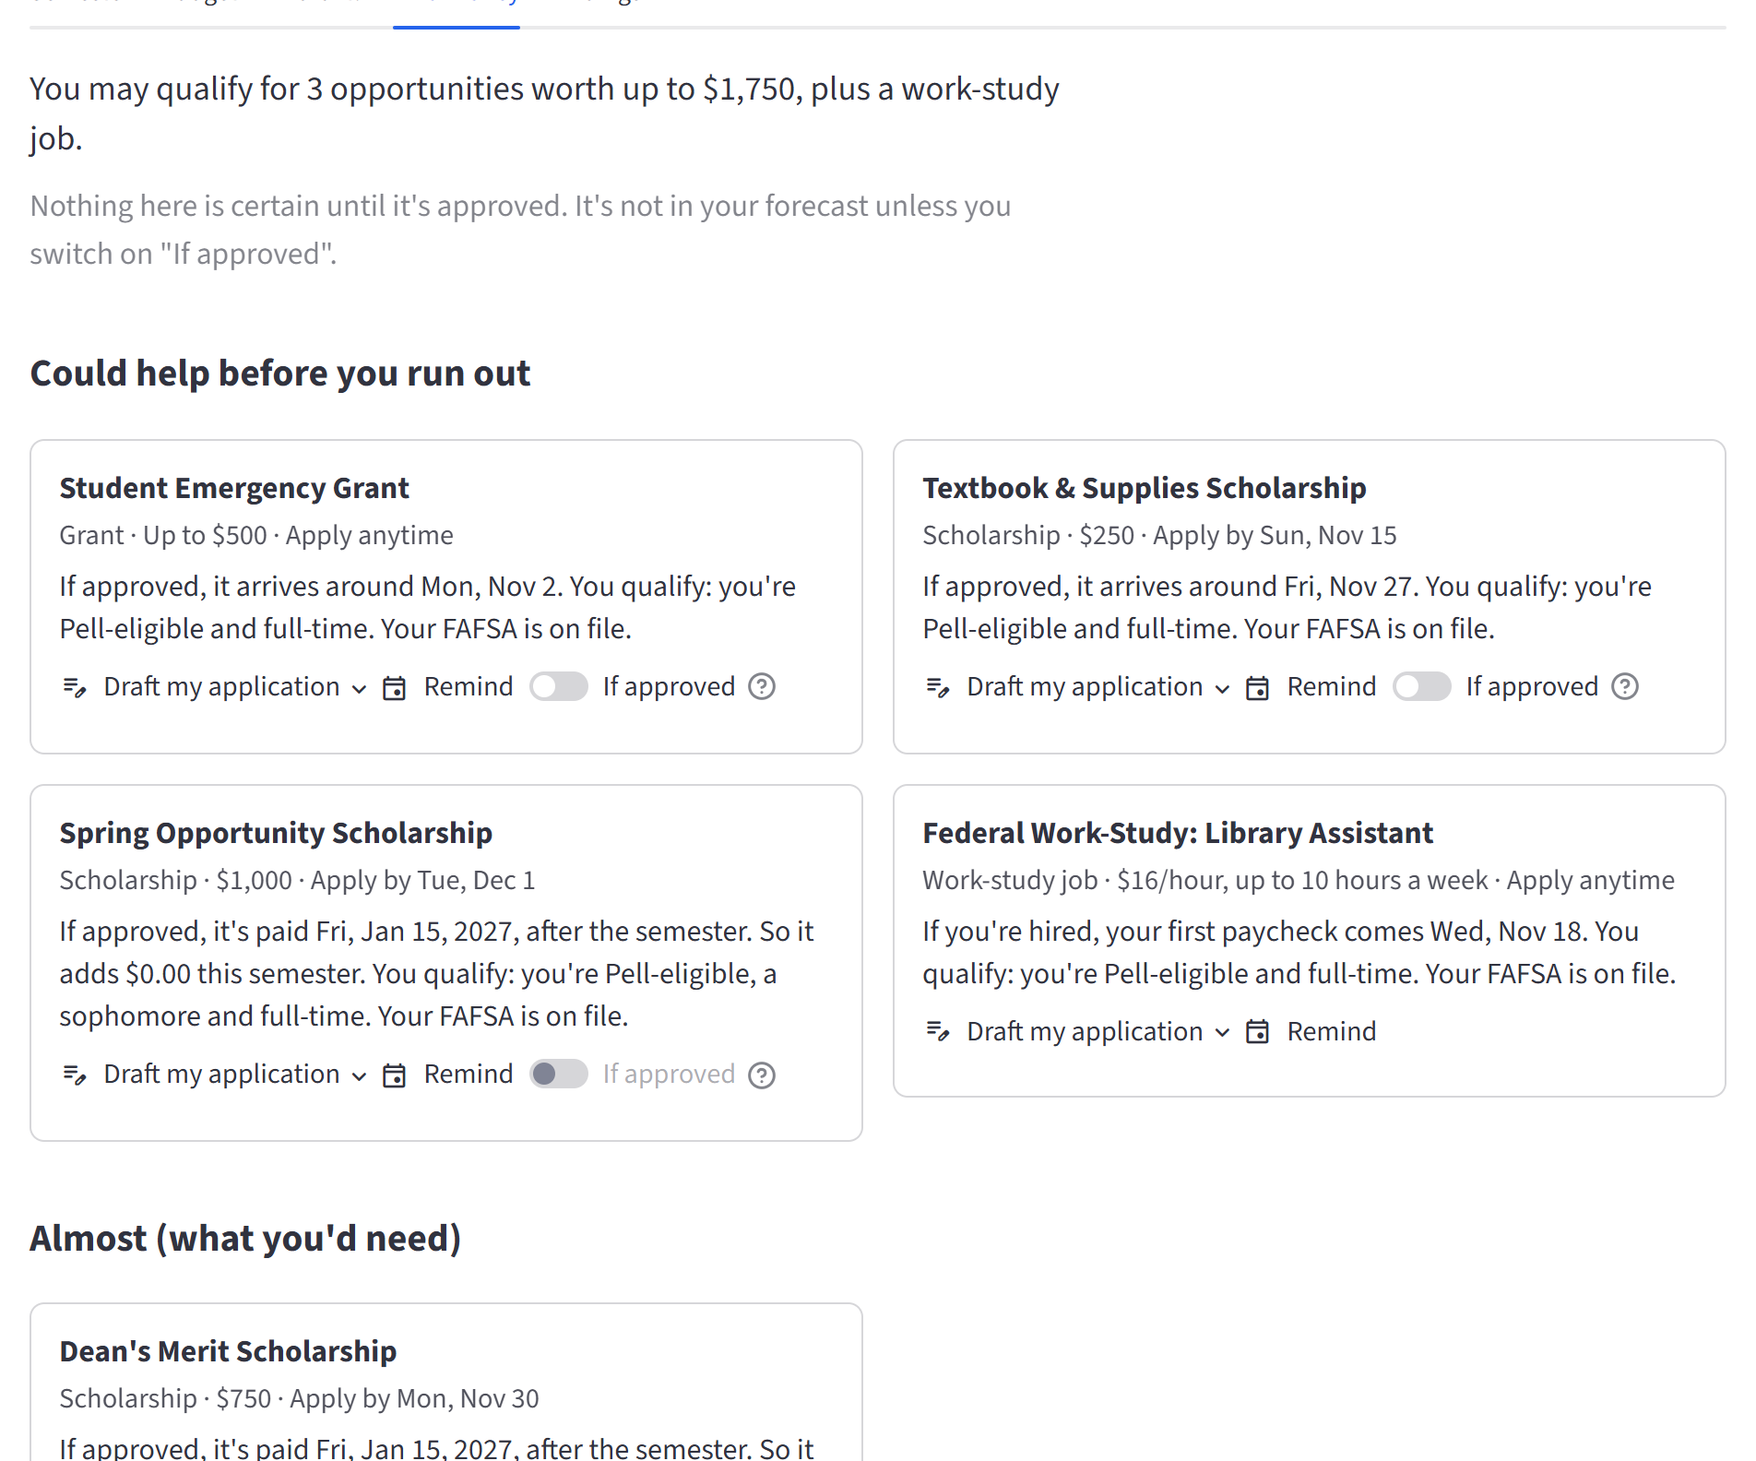
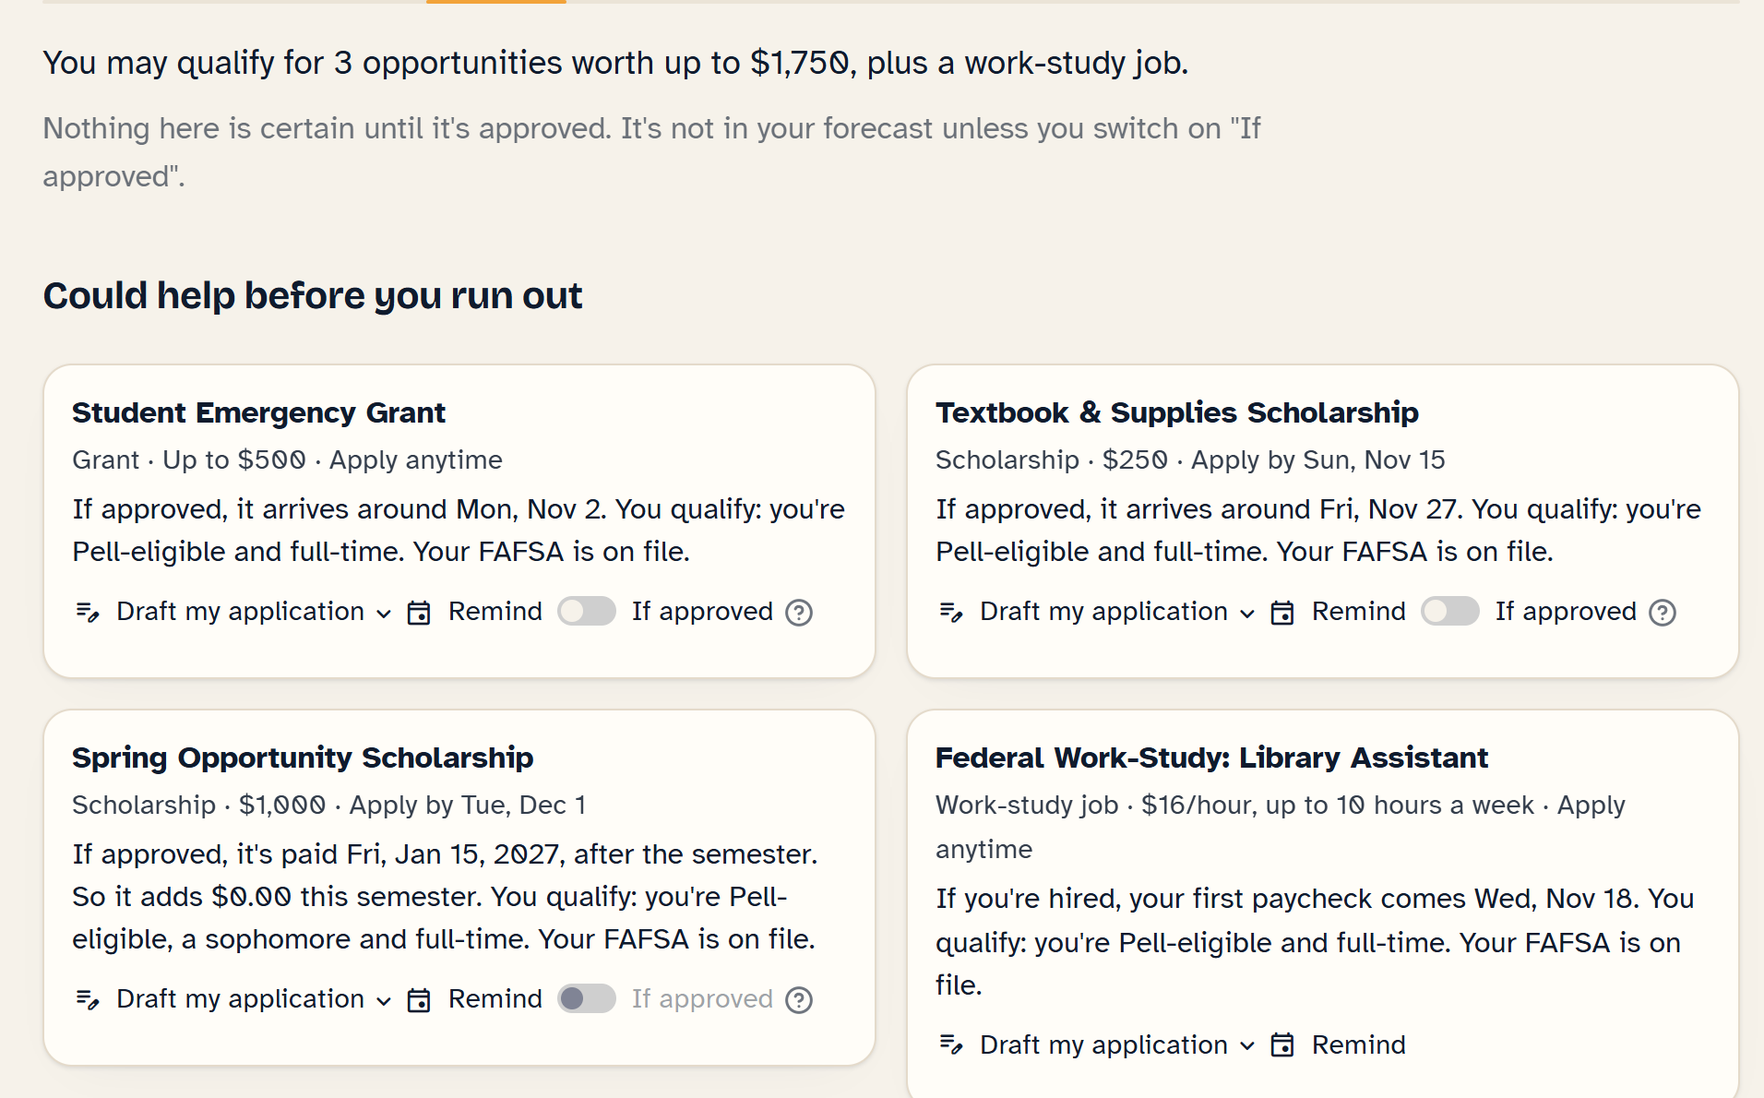
Layout part 4: demo script, README and deck screenshots for the new layout
- docs/DEMO_SCRIPT.md (3:42): open the chat with the round Ask Runway button; the flight questions, the Apple Music note, the follow-up and 'How Runway thought about this' happen in the panel; close it (X) before Form sent; the graph's two lines named in the opening beat; What Runway remembers sits at the bottom of the panel; judge tour updated
- docs/images/deck-*.png re-taken in light mode at 2x: the top of the page (notices + graph), the chat panel with an answer, proof chips and 'Written by ... through Meterless Nightshift', the shift planner, the Budget pie, Find money, What Runway remembers
- README screenshots and DECK_NOTES point at them

diff --git a/docs/DEMO_SCRIPT.md b/docs/DEMO_SCRIPT.md
@@ -25,23 +25,23 @@ never change; the AI's wording can, so read what is on screen rather than these 
 | **0:00-0:10** The problem | Pitch deck slide 1 (or the app header if there are no slides). | The problem slide. | "Students drop out over a few hundred dollars. Not because they overspend. Because they can't see what's coming." |
 | **0:10-0:20** Maya | Slide 2. | Maya and her eight money sources. | "Meet Maya. Her money lives in eight places: checking, a credit card, financial aid, her student account, her lease, her job, her meal plan and the school's aid list." |
 | **0:20-0:30** The solution | Slide 3. Then switch to the browser with Runway open. | Runway: an AI agent that explains why. | "Runway reads all eight, projects her money to December, explains why, and drafts the fix. She approves every action." |
-| **0:30-0:42** Open Runway | The app at the top (light mode). Point at the status card, the check-in, then the chart. | **"Your money runs out in 2 weeks, on Mon, Nov 9."** "Hi Maya. 6 things need your attention." The chart turns red after Nov 9. | "Runway speaks first. Her money runs out November 9th, when a $360 card payment is due." |
-| **0:42-1:05** The flight question | Click the chat box and **type**: `Can I afford a $400 flight home for Thanksgiving if I book it Nov 10?` Enter. Let it stream. Then click the proof chip **"2 · $1,850"** and point at **Do these** (don't click it). | "Understanding your question...", the quick answer at once, then the AI answer streaming in (about 9 s in the rehearsal). **"Yes, if you do 2 things."** Send the verification form ($1,850 refund around Thu, Nov 5); cancel Spotify ($23.98). Lowest point $5.81 on Mon, Nov 2. The proof table: the refund row from her student account. | "She types her question. Nemotron plans which tools to run. Our engine does all the math, so a quick answer shows in about a second. Then Nemotron writes the full answer, and a checker rejects any number that isn't in her records. Yes, if she does two things. Every number has proof." |
-| **1:05-1:15** The Apple Music insight | Point at the note under DO THIS. | "Cancelling Apple Music saves $0.00 this semester: Apple Music is billed to the credit card, and that card bill is paid after the semester ends." | "Here's what a budget app gets wrong. Cancelling Apple Music saves zero this semester: that card bill is paid in January. Spotify hits checking, so cancel that one." |
-| **1:15-1:27** The timing moment | **Type**: `Can I afford a $400 flight home for Thanksgiving?` Enter. | **"Not right now."** Lowest point $394 below zero on Mon, Nov 2. "You didn't say when you'd buy it, so I assumed tomorrow, Tue, Oct 27." | "Same flight, no date. Not right now: tomorrow comes before the refund. Runway says what it assumed." |
-| **1:27-1:37** A follow-up | **Type**: `what about Nov 17 instead?` Enter. | "Answering: Can I afford a $400 flight home for Thanksgiving if I book it Nov 17 instead?" **"Yes, if you do 2 things."** | "She can just follow up. Runway knows she means the flight." |
-| **1:37-1:52** Form sent | Scroll up to **"Send your verification form"**. Open **Email** for a second (don't send). Click **Form sent**. | **"You're covered all semester."** The chart goes blue. In the chat: "Nice. With the form sent, your refund should arrive around Wed, Nov 4. Your money now lasts all semester..." | "Runway drafts the email; Maya sends it herself. She marks the form as sent, and the whole forecast updates instantly, with no AI call." |
-| **1:52-2:03** Shift planner | **Semester** tab > **Shift planner**: click **+4h this Saturday**, then **+4h next Saturday**. | "These 2 shifts add $115 and you're covered all semester." Sat, Oct 31 adds $57.35, paid Tue, Nov 3. Sat, Nov 7 adds $57.35, paid Wed, Nov 18. | "Extra shifts show what each one adds after withholding, and when it's actually paid." |
-| **2:03-2:11** Budget | **Budget** tab. Point at the sentence and the donut. | "So far in October, you spent $1,757. Most went to Rent ($725) and Shopping ($461)." | "Budget shows where October went." |
-| **2:11-2:22** Find money | **Find money** tab. Point at **Student Emergency Grant**, switch on **If approved**. | "Student Emergency Grant · Up to $500 · Apply anytime. If approved, it arrives around Mon, Nov 2." | "Find money matches her to school aid. It only counts if she switches on 'if approved'. A maybe is never money." |
-| **2:22-2:34** Under the hood: Nightshift | Scroll up to the flight answer. Open **How Runway thought about this**, switch on **Details for nerds**. | "Planned by: Nemotron Lightning (nvidia/nemotron-3.5-lightning-30b-a3b) through Meterless Nightshift, receipt rcpt_..."; "Written by: Nemotron Ultra (nvidia/nemotron-3-ultra-550b-a55b) through Meterless Nightshift, receipt rcpt_..."; "Number check: all ... match your records"; the plan JSON and every model call with its routed model. | "Under the hood. Every request goes through Meterless Nightshift to NVIDIA Nemotron: Lightning plans, Ultra writes. The receipt shows which model answered. Here's the plan Nemotron wrote, which Python validates before any tool runs." |
-| **2:34-2:42** The provider checks | Open **Behind the scenes** (bottom) > **AI provider**. | The checks table: Connection HTTP 200; Authorization online; a wrong token shows unauthorized; model discovery; text requests on meterless/auto and the Nemotron models, each with its routed model and receipt. | "Runway checks Nightshift the official way: connection, authorization, model discovery, and a real request." |
-| **2:42-3:02** Zetaris, live | Scroll to **Run live on Zetaris**, click it. Talk while the timer runs (about 18 s). | The timer "Running on Zetaris... 12.4 s", then "Zetaris answered in 18.2 s: 13 rows from card and checking." and the SQL across `RUNWAY_CHECKING` and `RUNWAY_CARD`. | "The data layer is Zetaris: eight separate databases. This federated query runs live across her checking and her card, to find charges that repeat every month. No cache." |
-| **3:02-3:10** The code | Editor: `agent.py`, `run()` at line 2506. Scroll `# PLAN` (2548), `# EXECUTE` (2585), `# EXPLAIN + CHECK` (2608). | One PLAN call, the tools in plain Python, one EXPLAIN call, then the check. | "The whole agent is this loop: plan, deterministic tools, explain, check. Two model calls per question." |
-| **3:10-3:30** Memory (Meterless H-MEM) | Back to the browser. Open **What Runway remembers** under the chat. Then **reload the page** (a new session) and point at the first check-in card. | The memories, each with where it came from: "Marked done: Form sent (Send your verification form).", "Plans extra shifts: Sat, Oct 31 (4 hours), Sat, Nov 7 (4 hours).", short notes of her questions. After the reload, on the form card: **"Last time you clicked "Form sent". Still true? Click it again."** | "Runway remembers, with Meterless H-MEM. Every memory says where it came from, and she can forget it. Next session, Runway picks up where she left off. Memory helps the planner understand her. The numbers still come only from her records." |
+| **0:30-0:44** Open Runway | The app at the top (light mode): the navy Runway band, then the status card and the check-in. Scroll a little to the graph card. | Board label **RUNS OUT · MON, NOV 9** and "Your money runs out in 2 weeks, on Mon, Nov 9." "Hi Maya. 6 things need your attention." The graph "Your money through Dec 18": a solid line that turns red after Nov 9, and a dotted green line, "If you follow the steps", with "With the steps: lowest $5.81". | "Runway speaks first. Her money runs out November 9th, when a $360 card payment is due. The solid line is what's happening. The dotted line is what happens if she follows the steps." |
+| **0:44-1:06** The flight question | Click the round **Ask Runway** button (bottom-left). In the panel, click the box and **type**: `Can I afford a $400 flight home for Thanksgiving if I book it Nov 10?` Enter. Let it stream. Then click the proof chip **"2 · $1,850"** and point at **Do these** (don't click it). | The chat panel: "Understanding your question...", the quick answer at once, then the answer streaming in (about 9 s with Ultra). **"Yes, if you do 2 things."** Proof chips; the refund row from her student account. | "She asks from anywhere in the app. Nemotron plans which tools to run. Our engine does all the math, so a quick answer shows in about a second. Then Nemotron writes the full answer, and a checker rejects any number that isn't in her records. Yes, if she does two things. Every number has proof." |
+| **1:06-1:15** The Apple Music insight | Point at the note under DO THIS. | "Cancelling Apple Music saves $0.00 this semester: Apple Music is billed to the credit card, and that card bill is paid after the semester ends." | "Here's what a budget app gets wrong. Cancelling Apple Music saves zero this semester: that card bill is paid in January. Spotify hits checking, so cancel that one." |
+| **1:15-1:27** The timing moment | In the panel, **type**: `Can I afford a $400 flight home for Thanksgiving?` Enter. | **"Not right now."** Lowest point $394 below zero on Mon, Nov 2. "You didn't say when you'd buy it, so I assumed tomorrow, Tue, Oct 27." | "Same flight, no date. Not right now: tomorrow comes before the refund. Runway says what it assumed." |
+| **1:27-1:36** A follow-up | **Type**: `what about Nov 17 instead?` Enter. | "Answering: Can I afford a $400 flight home for Thanksgiving if I book it Nov 17 instead?" **"Yes, if you do 2 things."** | "She can just follow up. Runway knows she means the flight." |
+| **1:36-1:50** Under the hood: Nightshift | Still in the panel: open **How Runway thought about this** on the first answer, switch on **Details for nerds**. | "Planned by: Nemotron Lightning ... through Meterless Nightshift, receipt rcpt_..."; "Written by: Nemotron Ultra (nvidia/nemotron-3-ultra-550b-a55b) through Meterless Nightshift, receipt rcpt_..."; the number check; the plan JSON and every model call with its routed model. | "Under the hood. Every request goes through Meterless Nightshift to NVIDIA Nemotron: Lightning plans, Ultra writes. The receipt shows which model answered. Here's the plan, which Python validates before any tool runs." |
+| **1:50-2:04** Form sent | Close the panel (**X**). In the check-in card **"Send your verification form"**, open **Email** for a second (don't send), then click **Form sent**. | **"You're covered all semester."**, board label **COVERED · DEC 18**. The graph: the solid line stays above $0 (blue) all semester; the dotted line now only adds cancelling Spotify. | "Runway drafts the email; Maya sends it herself. She marks the form as sent, and the whole forecast updates instantly, with no AI call." |
+| **2:04-2:14** Shift planner | **Semester** tab, scroll to **Shift planner**: click **+4h this Saturday**, then **+4h next Saturday**. | "These 2 shifts add $115 and you're covered all semester." Sat, Oct 31 adds $57.35, paid Tue, Nov 3. Sat, Nov 7 adds $57.35, paid Wed, Nov 18. | "Extra shifts show what each one adds after withholding, and when it's actually paid." |
+| **2:14-2:22** Budget | **Budget** tab. Point at the sentence and the donut. | "So far in October, you spent $1,757. Most went to Rent ($725) and Shopping ($461)." | "Budget shows where October went." |
+| **2:22-2:32** Find money | **Find money** tab. Point at **Student Emergency Grant**, switch on **If approved**. | "Student Emergency Grant · Up to $500 · Apply anytime. If approved, it arrives around Mon, Nov 2." | "Find money matches her to school aid. It only counts if she switches on 'if approved'. A maybe is never money." |
+| **2:32-2:40** The provider checks | Scroll to **Behind the scenes** (bottom), open it > **AI provider**. | The checks table: Connection HTTP 200; Authorization online; a wrong token shows unauthorized; model discovery; text requests, each with its routed model and receipt. | "Runway checks Nightshift the official way: connection, authorization, model discovery, and a real request." |
+| **2:40-3:00** Zetaris, live | Scroll to **Run live on Zetaris**, click it. Talk while the timer runs (about 18 s). | The timer "Running on Zetaris... 12.4 s", then "Zetaris answered in 18.2 s: 13 rows from card and checking." and the SQL across `RUNWAY_CHECKING` and `RUNWAY_CARD`. | "The data layer is Zetaris: eight separate databases. This federated query runs live across her checking and her card, to find charges that repeat every month. No cache." |
+| **3:00-3:08** The code | Editor: `agent.py`, `run()` at line 2506. Scroll `# PLAN` (2548), `# EXECUTE` (2585), `# EXPLAIN + CHECK` (2608). | One PLAN call, the tools in plain Python, one EXPLAIN call, then the check. | "The whole agent is this loop: plan, deterministic tools, explain, check. Two model calls per question." |
+| **3:08-3:30** Memory (Meterless H-MEM) | Back to the browser. Click **Ask Runway**, open **What Runway remembers** at the bottom of the panel. Close the panel, **reload the page** (a new session) and point at the first check-in card. | The memories, each with where it came from: "Marked done: Form sent (Send your verification form).", "Plans extra shifts: Sat, Oct 31 (4 hours), Sat, Nov 7 (4 hours).", short notes of her questions. After the reload, on the form card: **"Last time you clicked "Form sent". Still true? Click it again."** | "Runway remembers, with Meterless H-MEM. Every memory says where it came from, and she can forget it. Next session, Runway picks up where she left off. Memory helps the planner understand her. The numbers still come only from her records." |
 | **3:30-3:42** Close | Scroll to the top. | The status card. | "Every answer Runway showed in our 29-question test passed the number check. Next: bank connections with consent, school integrations, a mobile app. Runway: know if you'll make it, and why." |
 
-The memory beat reloads the page, so it comes after everything that needs the chat. "What Runway remembers" fills
+The chat lives behind the round **Ask Runway** button (bottom-left, on every tab); the panel covers the page while it's open, so close it (X) before clicking on the page. The memory beat reloads the page, so it comes last. "What Runway remembers" fills
 up during the demo; the checklist clears it before recording.
 
 ### If something goes wrong while recording
@@ -103,7 +103,7 @@ up during the demo; the checklist clears it before recording.
 
 1. **Top of the page:** the status card ("Your money runs out in 2 weeks, on Mon, Nov 9.") and the check-in. Try
    **Remind**, **Email** and **Form sent** on the first card: the forecast changes at once. **Undo** puts it back.
-2. **Chat:** click the suggested questions. The flight question with a date says "Yes, if you do 2 things"; without
+2. **Chat:** click the round **Ask Runway** button (bottom-left, on every tab) and pick a suggested question. The flight question with a date says "Yes, if you do 2 things"; without
    a date it says "Not right now". Click a proof chip to see where each number came from. Type a follow-up
    ("what about Nov 17 instead?") if a key is set.
 3. **What-if panel:** turn fixes on and off; the chart and numbers update instantly, with no AI call.
@@ -113,7 +113,7 @@ up during the demo; the checklist clears it before recording.
 7. **Find money tab:** the school's grants ("if approved" switches), then "Found online - check before applying"
    (web results with links; amounts only when the page states them).
 8. **Findings tab:** the money leaks, with the Apple Music vs Spotify timing explained.
-9. **What Runway remembers** (under the chat): what she marked done, her budget and shifts, and notes from past
+9. **What Runway remembers** (at the bottom of the chat panel): what she marked done, her budget and shifts, and notes from past
    chats (Meterless H-MEM), each with where it came from; Forget, "This isn't right", Forget everything. Reload the
    page: the check-in says "Last time you clicked ..." for anything she did in an earlier session.
 10. **Behind the scenes** (bottom): the 8 data sources, the AI provider checks (Meterless Nightshift), **Run live on

diff --git a/docs/DECK_NOTES.md b/docs/DECK_NOTES.md
@@ -40,7 +40,7 @@ checked.
     shifts she plans, her Think harder preference and one-line notes of her questions. Each has where it came from
     and when.
   - **Across sessions:** next session the check-in asks "Last time you clicked "Form sent". Still true? Click it
-    again." (screenshot `docs/images/deck-1-status-and-check-in.png`).
+    again." (shown in the app's check-in after a reload).
   - **Planner only:** recall goes to the planner (PLAN) so follow-ups across sessions work. It never goes into the
     answer's numbers.
   - **Forgetting:** Forget one memory, "This isn't right" (H-MEM's `wrong` feedback), Forget everything (screenshot
@@ -96,8 +96,8 @@ checked.
 
 | File | Shows |
 |---|---|
-| `deck-1-status-and-check-in.png` | "Your money runs out in 2 weeks, on Mon, Nov 9." and the check-in, with the memory line "Last time you clicked "Form sent". Still true?" |
-| `deck-2-answer-with-proof.png` | The streamed flight answer: "Yes, if you do 2 things.", DO THIS, "Do these", the Apple Music $0.00 note, the proof chips |
+| `deck-1-notices-and-graph.png` | The top of the page: the board label RUNS OUT · MON, NOV 9, "Your money runs out in 2 weeks, on Mon, Nov 9.", the check-in (6 things), the tabs, and the graph card "Your money through Dec 18": solid "What's happening" (red below $0), dotted green "If you follow the steps", "With the steps: lowest $5.81" |
+| `deck-2-chat-panel-answer.png` | The chat panel (opened by the round Ask Runway button): "Yes, if you do 2 things.", DO THIS with "Do these", the Apple Music $0.00 note, the proof chips, and "Planned by: Nemotron Lightning ... / Written by: Nemotron Ultra ... through Meterless Nightshift, receipt rcpt_..." |
 | `deck-3-shift-planner.png` | "These 2 shifts add $115 and you're covered all semester.", each shift's pay and payday |
 | `deck-4-budget.png` | October spending: $1,757, the donut and the category table |
 | `deck-5-find-money.png` | School aid, "if approved" switches: the $500 emergency grant arriving around Mon, Nov 2 |

diff --git a/README.md b/README.md
@@ -126,12 +126,12 @@ Maya's demo data.
 
 | | |
 |---|---|
-| ![Status card and check-in](docs/images/1-status-and-check-in.jpg) | ![The flight answer with proof](docs/images/2-flight-answer.jpg) |
-| **It speaks up first:** the status card and the check-in, with real actions. | **Yes, if you do 2 things:** every number cited, Apple Music saves $0.00. |
-| ![Balance chart](docs/images/3-semester-chart.jpg) | ![Budget tab](docs/images/4-budget.jpg) |
-| **Semester:** the balance day by day to Dec 18, and ways to fix it. | **Budget:** where the money went, by category. |
-| ![Found online](docs/images/5-found-online.jpg) | |
-| **Find money:** the school's grants, then "Found online - check before applying". | |
+| ![The status card, the check-in and the graph](docs/images/deck-1-notices-and-graph.png) | ![The chat panel with an answer](docs/images/deck-2-chat-panel-answer.png) |
+| **It speaks up first:** the status card and the check-in, then the graph: what's happening (solid) and if you follow the steps (dotted). | **Ask Runway** (the round button, bottom-left): every number cited, and which model answered, through Meterless Nightshift. |
+| ![Shift planner](docs/images/deck-3-shift-planner.png) | ![Budget tab](docs/images/deck-4-budget.png) |
+| **Shift planner:** each shift's pay and payday. | **Budget:** where the money went, by category. |
+| ![Find money](docs/images/deck-5-find-money.png) | ![What Runway remembers](docs/images/deck-6-what-runway-remembers.png) |
+| **Find money:** the school's grants, "if approved" only. | **What Runway remembers** (Meterless H-MEM): each memory with where it came from. |
 
 ## Dependencies
 
